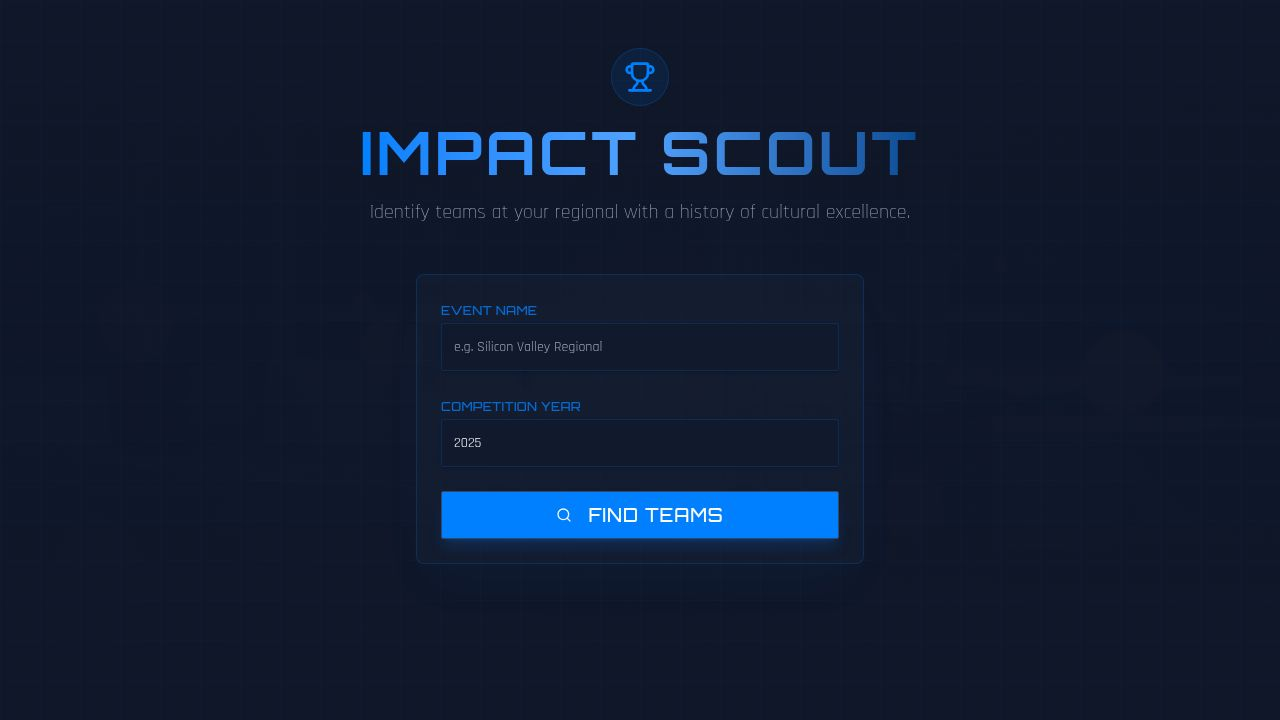
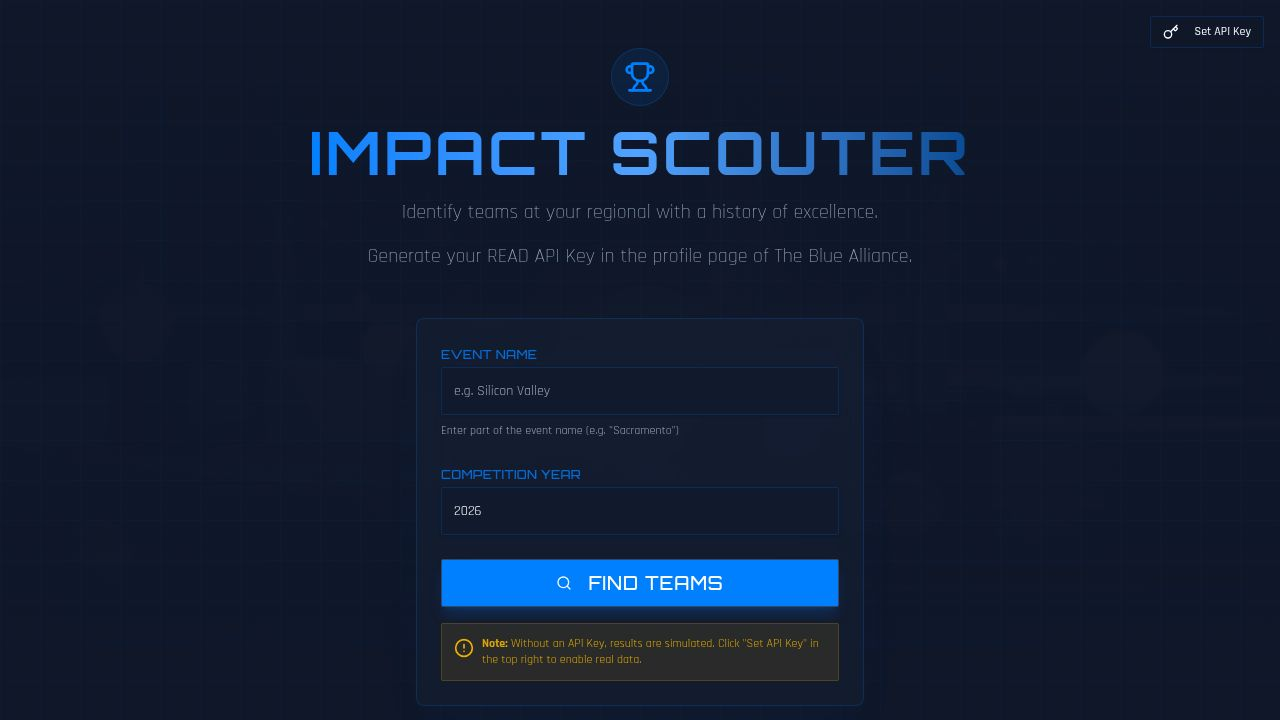
Update links to show team award essays instead of team websites
Replace the external website link on team cards with a direct link to the team's award essay PDF, updating the relevant icon and tooltip.

Replit-Commit-Author: Agent
Replit-Commit-Session-Id: 874acb41-c80e-428b-adb8-3fbf06560067
Replit-Commit-Checkpoint-Type: full_checkpoint
Replit-Commit-Event-Id: 941cf29d-9db5-4cda-bfba-d9445caaf7bf
Replit-Commit-Screenshot-Url: https://storage.googleapis.com/screenshot-production-us-central1/e68c2024-4572-4c8e-b091-ba169057ee47/874acb41-c80e-428b-adb8-3fbf06560067/XV8192L
Replit-Helium-Checkpoint-Created: true

diff --git a/client/src/components/team-card.tsx b/client/src/components/team-card.tsx
@@ -1,7 +1,8 @@
 import { motion } from "framer-motion";
-import { ExternalLink, MapPin, Trophy } from "lucide-react";
+import { FileText, MapPin, Trophy } from "lucide-react";
 import { Card, CardContent, CardHeader, CardTitle } from "@/components/ui/card";
 import { Badge } from "@/components/ui/badge";
+import { Tooltip, TooltipContent, TooltipProvider, TooltipTrigger } from "@/components/ui/tooltip";
 import type { Team } from "@/lib/types";
 
 interface TeamCardProps {
@@ -27,16 +28,6 @@ export function TeamCard({ team, index }: TeamCardProps) {
                 {team.nickname}
               </h3>
             </div>
-            {team.website && (
-              <a
-                href={team.website}
-                target="_blank"
-                rel="noreferrer"
-                className="text-muted-foreground hover:text-primary transition-colors"
-              >
-                <ExternalLink className="h-5 w-5" />
-              </a>
-            )}
           </div>
           <div className="flex items-center gap-2 text-sm text-muted-foreground mt-2">
             <MapPin className="h-4 w-4" />
@@ -50,17 +41,39 @@ export function TeamCard({ team, index }: TeamCardProps) {
               <span>Award History</span>
             </div>
             <div className="space-y-2">
-              {team.awards.map((award, i) => (
-                <div 
-                  key={i} 
-                  className="bg-primary/5 border border-primary/10 rounded-md p-2 text-sm flex justify-between items-center"
-                >
-                  <span className="font-medium text-foreground/90">{award.name}</span>
-                  <Badge variant="outline" className={`border-primary/30 ${award.year >= 2022 ? "bg-primary/20 text-primary font-bold" : "text-muted-foreground"}`}>
-                    {award.year}
-                  </Badge>
-                </div>
-              ))}
+              {team.awards.map((award, i) => {
+                const essayUrl = `https://info.firstinspires.org/hubfs/web/program/frc/awards/fia-essays/${award.year}/${team.team_number}.pdf`;
+                return (
+                  <div 
+                    key={i} 
+                    className="bg-primary/5 border border-primary/10 rounded-md p-2 text-sm flex justify-between items-center"
+                  >
+                    <div className="flex items-center gap-2">
+                      <span className="font-medium text-foreground/90">{award.name}</span>
+                      <TooltipProvider>
+                        <Tooltip>
+                          <TooltipTrigger asChild>
+                            <a
+                              href={essayUrl}
+                              target="_blank"
+                              rel="noreferrer"
+                              className="text-primary hover:text-primary/80 transition-colors"
+                            >
+                              <FileText className="h-4 w-4" />
+                            </a>
+                          </TooltipTrigger>
+                          <TooltipContent>
+                            <p>Read Winning Essay</p>
+                          </TooltipContent>
+                        </Tooltip>
+                      </TooltipProvider>
+                    </div>
+                    <Badge variant="outline" className={`border-primary/30 ${award.year >= 2022 ? "bg-primary/20 text-primary font-bold" : "text-muted-foreground"}`}>
+                      {award.year}
+                    </Badge>
+                  </div>
+                );
+              })}
             </div>
           </div>
         </CardContent>
